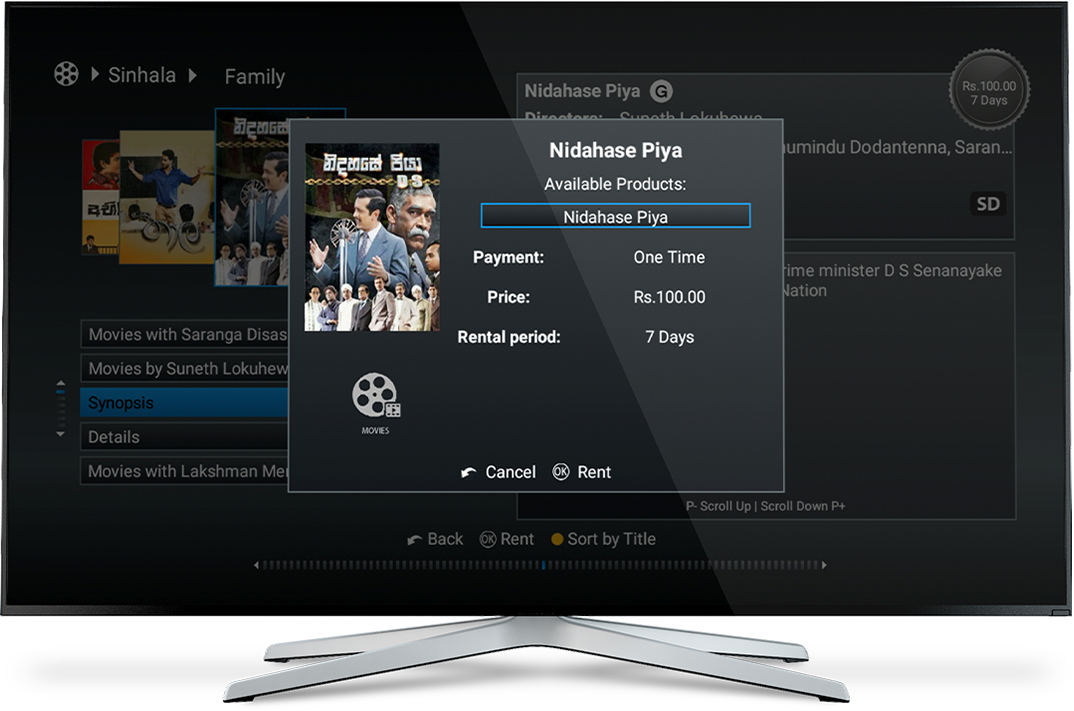
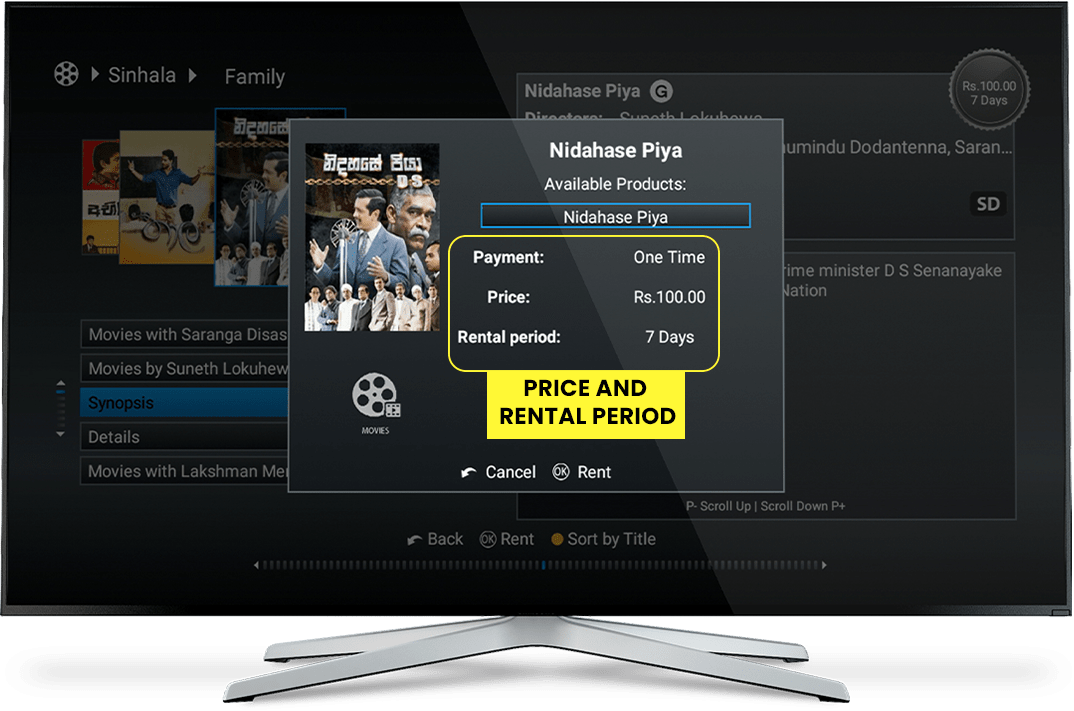
data changes

Changed region(s): [[0.4302, 0.4951, 0.676, 0.6188]]

diff --git a/src/Data/PurchaseMovieInstructions.js b/src/Data/PurchaseMovieInstructions.js
@@ -65,7 +65,7 @@ export const purchaseMovie = [
 		tv: tv_5_71,
 		instruction: {
 			image: false,
-			english: `Movie Catalogue is displayed with NEW ARRIVALS highlighted in the Top Left Menu and Movies Carousel below showing newly added movies as movie posters`,
+			english: `MOVIE CATALOGUE is displayed with NEW ARRIVALS highlighted in the TOP LEFT MENU and MOVIES CAROUSEL below showing newly added movies as movie posters`,
 			tamil:
 				'மேல் இடது மெனு மற்றும் மூவி கொணர்வி ஆகியவற்றில் சிறப்பிக்கப்பட்டுள்ள புதிய வருகைகளுடன் திரைப்பட பட்டியல் காட்டப்படும், புதிதாக சேர்க்கப்பட்ட அனைத்து திரைப்படங்களையும் திரைப்பட சுவரொட்டிகளாகக் காட்டுகிறது',
 			sinhala:
@@ -76,7 +76,7 @@ export const purchaseMovie = [
 		tv: tv_5_2_71,
 		instruction: {
 			image: false,
-			english: `Movie Description Window on the Top Right Corner shows brief description of the highlighted movie`,
+			english: `MOVIE DESCRIPTION WINDOW on the Top Right Corner shows brief description of the highlighted movie`,
 			tamil:
 				'மேல் இடது மெனு மற்றும் மூவி கொணர்வி ஆகியவற்றில் சிறப்பிக்கப்பட்டுள்ள புதிய வருகைகளுடன் திரைப்பட பட்டியல் காட்டப்படும், புதிதாக சேர்க்கப்பட்ட அனைத்து திரைப்படங்களையும் திரைப்பட சுவரொட்டிகளாகக் காட்டுகிறது',
 			sinhala:
@@ -89,7 +89,7 @@ export const purchaseMovie = [
 		instruction: {
 			image: false,
 			english:
-				'Use ↑ or ↓ buttons to navigate up or down Top Left Menu until SINHALA is highlighted.',
+				'Use ↑ or ↓ buttons to navigate up or down TOP LEFT MENU until SINHALA is highlighted.',
 			tamil:
 				'சின்ஹாலா சிறப்பம்சமாக இருக்கும் வரை மேல் இடது மெனு வழியாக மேலே அல்லது கீழே செல்ல ↑ அல்லது ↓ பொத்தான்களைப் பயன்படுத்தவும்.',
 			sinhala:
@@ -165,9 +165,12 @@ export const purchaseMovie = [
 		remote: ok,
 		instruction: {
 			image: false,
-			english: 'Movie Description Window on the Top Right Corner shows brief description of the highlighted movie and synopsis of the movie is displayed in the bottom right Movie Rental Price and Rental Period is shown in the Top Right Corner',
-			tamil: 'மேல் வலது மூலையில் உள்ள திரைப்பட விவரம் சாளரம் சிறப்பம்சமாகக் காட்டப்பட்ட திரைப்படத்தின் சுருக்கமான விளக்கத்தைக் காட்டுகிறது திரைப்பட வாடகை விலை மற்றும் வாடகை காலம் மேல் வலது மூலையில் காட்டப்பட்டுள்ளது',
-			sinhala: 'ඉස්මතු කළ චිත්රපටය පිළිබඳ කෙටි විස්තරයක් ඉහළ දකුණු කෙළවරේ ඇති චිත්රපට විස්තර කවුළුව පෙන්වන අතර චිත්රපටයේ සාරාංශය පහල දකුණු කෙළවරේ පෙන්වයි චිත්රපටයේ මිල සහ නැරඹීමට ඇති කාල සීමාව ඉහළ දකුණු කෙළවරේ දක්වා ඇත.',
+			english:
+				'Synopsis of the highlighted movie is displayed in the bottom right MOVIE DESCRIPTION WINDOW on the Top Right Corner shows brief description of the movie, Rental Price and Rental Period',
+			tamil:
+				'மேல் வலது மூலையில் உள்ள திரைப்பட விவரம் சாளரம் சிறப்பம்சமாகக் காட்டப்பட்ட திரைப்படத்தின் சுருக்கமான விளக்கத்தைக் காட்டுகிறது திரைப்பட வாடகை விலை மற்றும் வாடகை காலம் மேல் வலது மூலையில் காட்டப்பட்டுள்ளது',
+			sinhala:
+				'ඉස්මතු කළ චිත්රපටය පිළිබඳ කෙටි විස්තරයක් ඉහළ දකුණු කෙළවරේ ඇති චිත්රපට විස්තර කවුළුව පෙන්වන අතර චිත්රපටයේ සාරාංශය පහල දකුණු කෙළවරේ පෙන්වයි චිත්රපටයේ මිල සහ නැරඹීමට ඇති කාල සීමාව ඉහළ දකුණු කෙළවරේ දක්වා ඇත.',
 		},
 	},
 	{
@@ -185,7 +188,7 @@ export const purchaseMovie = [
 		remote: ok,
 		instruction: {
 			image: false,
-			english: 'Press OK Button again.',
+			english: 'Movie Rental Price and Rental Period is shown.',
 			tamil: 'சரி பொத்தானை மீண்டும் அழுத்தவும்.',
 			sinhala: 'නැවත වාරයක් OK බොත්තම ඔබන්න.',
 		},
